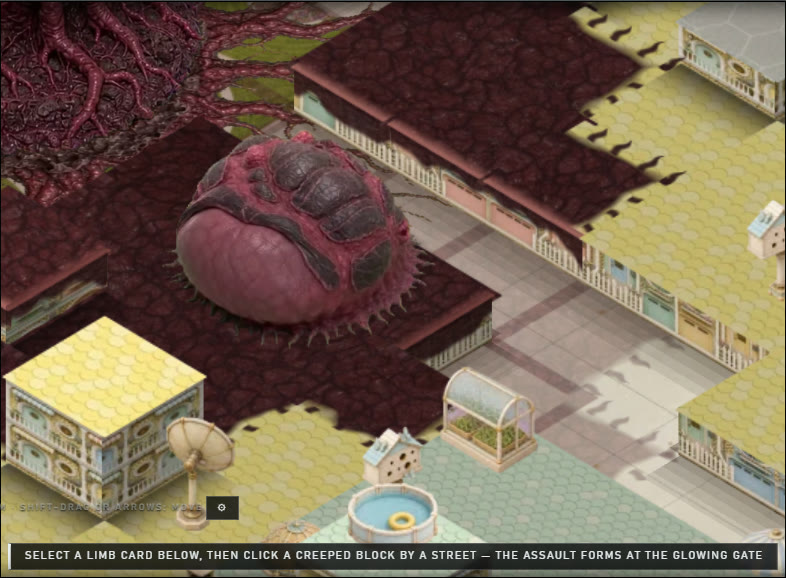
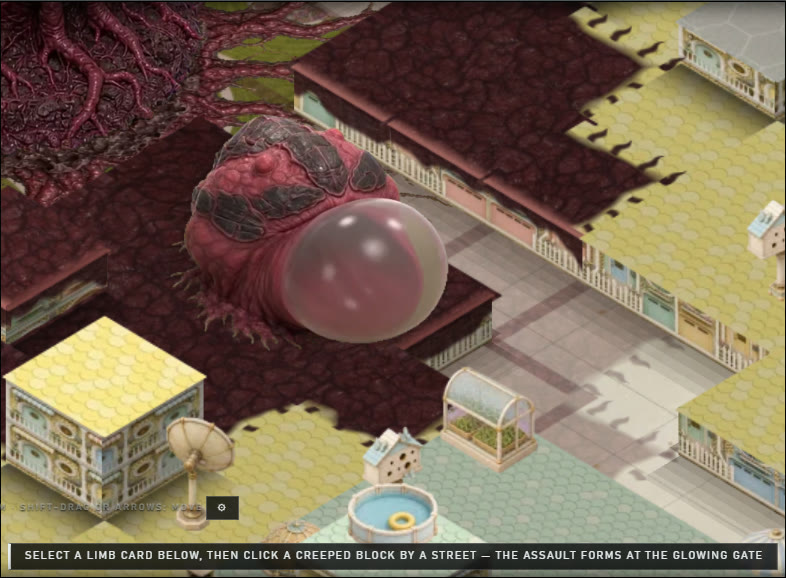
Broodfall: peers' work in progress (swept in by the sound session)

Changed region(s): [[0.2137, 0.1869, 0.5802, 0.5917]]

diff --git a/games/broodfall/notes/screens/2026-09-30/anim-README.md b/games/broodfall/notes/screens/2026-09-30/anim-README.md
@@ -10,6 +10,124 @@ Three videos of the real game (DEV server, Chromium with the GPU on, Chrome's ow
 
 Made by `node tools/shot-anim.mjs [limbs core siege]`. The numbers below come from `node tools/art/idle-loops.mjs`, which measures every idle loop straight from the atlases (all 37 limbs, front and back, and the 4 core stages). A per-limb motion trace over anim-01 (mean pixel change between video frames, in a box round each limb) was used to check that what the atlas says is what the page shows.
 
+## AFTER: the idles fixed (Sep 30 2026, same day)
+
+Three new reels, recorded the same way (`node tools/shot-anim.mjs limbs core siege --after`):
+
+| Video | What it shows |
+|---|---|
+| `anim-11-limbs-idle-close-AFTER.mp4` | the same 12 limbs, same seed, same camera as anim-01 |
+| `anim-12-core-stages-AFTER.mp4` | the core idling at stages 1 to 4, as anim-02 |
+| `anim-13-siege-AFTER.mp4` | the same scripted siege as anim-03 (seed 3, wave 5) |
+
+What was done, fault by fault:
+
+1. **Snaps: every idle with no clean loop now plays ping-pong** (Collins: "you can fix that with a ping
+   pong loop, front to back, back to front"). The bake (`tools/art/templates/limb.mjs`, `idleCut`) now
+   compares frames in colour at up to 160 px over what is solid, the units of this page's table (the old
+   cut compared 48 px grey thumbnails, which cannot see a glow crawl). It keeps the LONGEST window whose
+   seam is at most 1.35 steps; an idle with no such window (it drifts one way all through: the maw's mouth
+   widening for 4 s, the mosaic's glow crawling) is baked with `"pingpong": true` over the longest stretch
+   the clip has, and the game plays it forward and back, eased at its ends (a cosine) so it breathes out
+   and in instead of bouncing. 34 of the 52 limb idles play ping-pong, 18 loop cleanly. A cross-fade of the
+   seam at bake was tried first on the milder ones and dropped for Collins's call. Core stages 3 and 4
+   were already ping-pong (baked there and back); the game now does it, so their frames are stored once.
+2. **Stop-motion: every frame of the loop is kept** (the clip's own frames at 12 fps: real in-betweens
+   from the video, not interpolated; the bake used to keep 16 of up to 46), and the game **cross-fades
+   frame to frame** (the next frame laid over this one at the fraction between them: a second sprite per
+   limb and for the core). No frame interpolator was needed: the source clips are 24 fps. Every limb idle
+   is now 12 fps (was 4.2 to 12); core stages 1 and 2 keep 37 and 35 frames (were 16), stage 3 27 and
+   stage 4 19 (a picture is kept under 8,192 px a side and about 45 million pixels, what a GPU takes as
+   one texture: stage 3's frames are 1,091 px).
+3. **Game speed: the idles have their own clock** (`src/render/idleClock.ts`). It runs on real time at
+   the game's speed measured over the last half second, capped at 1.5x, and stops dead when the sim stops
+   (pause, draft). A buff no longer speeds an idle. This also fixed a fault the first reels could not show:
+   the sim ticks 0.1 s at a time, so an idle on the sim's clock could only change 10 times a second.
+   Firing clips still follow the game clock (they are fitted into the time before the limb fires again,
+   which is game time).
+4. **In step: each limb starts at its own phase**, a hash of its id (was 0.37 s x id, which wrapped).
+5. **Near-still idles breathe**: an idle under 2% of it moving per step at 12 fps is baked `"breathe": true`
+   and the game swells it about its foot (1.1% taller, 0.5% narrower, one breath per 3.4 s, its own phase):
+   amp, blighter, burster, capacitor, conduit, mosaic, reliquary, ward, maw (front and back), ember back,
+   lance back, swamp (a flat pool, so not drawn breathing).
+
+Checked by eye: `node tools/art/idle-play.mjs <limb|core-N> [--back] [--before <old public/art>]` plays an
+idle exactly as the game does (loop or eased ping-pong, cross-fade, breathing) into a 30 fps film and a
+sheet of the 20 frames round its seam or turn; every idle was played before and after, and the ones that
+move most (quill back, frond, maw, bombard) were looked at frame by frame at 2x: no ghosting, no doubled
+spines. `node tools/art/idle-seams.mjs` prints each clip's old and new cut.
+
+### BEFORE / AFTER
+
+BEFORE: this page's table below (from the atlases as of commit 4af2198). AFTER: `node tools/art/idle-loops.mjs`
+on the new atlases. step and seam are in the same units (mean change per frame step, 0 to 255, over the
+opaque pixels): a seam of 1 step or less is invisible. A ping-pong has no seam (it turns back one step at a
+time); its cycle is there and back, eased (1.3x the frames' own time). The last column is what the eye sees:
+each idle played for two cycles at 30 fps the way the game draws it (`tools/art/idle-play.mjs`), the
+biggest change in one 1/30 s against the mean change. A snap or a held stop-motion pose shows as 6x to 14x;
+a smooth idle is 1.3x to 2.3x (a ping-pong's eased middle runs about 1.6x its mean, so ~2x is its floor).
+
+| limb | side | BEFORE fps · loop | BEFORE step | BEFORE seam (steps) | AFTER plays | AFTER frames · fps · cycle | AFTER step | AFTER seam (steps) | on screen, worst 1/30 s over mean: BEFORE → AFTER |
+|---|---|---|---|---|---|---|---|---|---|
+| amp | front | 8 · 2.00 s | 4.5 | 6.8 (1.50) | ping-pong + breathes | 46 · 12.00 · 9.75 s | 4.5 | none (turns) | 5.6x → 2.2x |
+| amp | back | 4.17 · 3.84 s | 11.6 | 13.2 (1.14) | ping-pong | 46 · 12.00 · 9.75 s | 5.8 | none (turns) | 9.4x → 2.0x |
+| blighter | front | 8.73 · 1.83 s | 3.9 | 12.2 (3.10) | ping-pong + breathes | 46 · 12.00 · 9.75 s | 3.4 | none (turns) | 8.5x → 2.2x |
+| bombard | front | 4.17 · 3.84 s | 14.4 | 9.6 (0.67) | loop | 46 · 12.00 · 3.83 s | 7.2 | 6.2 (0.86) | 9.3x → 1.6x |
+| boomerang | front | 12 · 1.33 s | 5.5 | 17.8 (3.21) | ping-pong | 46 · 12.00 · 9.75 s | 8.6 | none (turns) | 6.4x → 2.4x |
+| brood | front | 4.92 · 3.25 s | 14.5 | 19.2 (1.32) | loop | 46 · 12.00 · 3.83 s | 7.8 | 7.2 (0.91) | 10.2x → 2.1x |
+| brood | back | 4.47 · 3.58 s | 10.9 | 14.6 (1.34) | loop | 43 · 12.00 · 3.58 s | 5.5 | 6.0 (1.11) | 9.4x → 1.5x |
+| burster | front | 4.17 · 3.84 s | 8.0 | 7.7 (0.96) | ping-pong + breathes | 46 · 12.00 · 9.75 s | 4.2 | none (turns) | 9.9x → 2.1x |
+| cage | front | 4.17 · 3.84 s | 11.3 | 12.7 (1.13) | ping-pong | 46 · 12.00 · 9.75 s | 5.4 | none (turns) | 9.7x → 2.1x |
+| capacitor | front | 11.29 · 1.42 s | 3.5 | 16.0 (4.54) | ping-pong + breathes | 46 · 12.00 · 9.75 s | 4.5 | none (turns) | 9.0x → 1.9x |
+| choir | front | 6 · 2.67 s | 8.9 | 7.6 (0.85) | loop | 32 · 12.00 · 2.67 s | 5.8 | 5.7 (0.99) | 6.2x → 1.3x |
+| conduit | front | 8.73 · 1.83 s | 4.4 | 13.2 (2.97) | ping-pong + breathes | 46 · 12.00 · 9.75 s | 3.6 | none (turns) | 8.4x → 2.1x |
+| conduit | back | 7.11 · 2.25 s | 8.1 | 6.9 (0.84) | loop | 28 · 12.00 · 2.33 s | 5.7 | 7.1 (1.23) | 5.7x → 1.5x |
+| ember | front | 4.17 · 3.84 s | 13.1 | 19.9 (1.52) | ping-pong | 46 · 12.00 · 9.75 s | 6.3 | none (turns) | 9.3x → 2.1x |
+| ember | back | 10.67 · 1.50 s | 3.4 | 9.1 (2.73) | ping-pong + breathes | 46 · 12.00 · 9.75 s | 3.8 | none (turns) | 6.7x → 2.0x |
+| frond | front | 4.57 · 3.50 s | 13.8 | 17.5 (1.26) | ping-pong | 46 · 12.00 · 9.75 s | 7.2 | none (turns) | 10.1x → 2.0x |
+| impaler | front | 4.47 · 3.58 s | 7.9 | 5.6 (0.72) | loop | 45 · 12.00 · 3.75 s | 4.1 | 4.9 (1.18) | 9.9x → 1.5x |
+| impaler | back | 4.36 · 3.67 s | 10.6 | 8.2 (0.77) | loop | 46 · 12.00 · 3.83 s | 5.2 | 5.3 (1.02) | 9.6x → 1.6x |
+| lance | front | 4.47 · 3.58 s | 6.8 | 7.1 (1.05) | ping-pong | 46 · 12.00 · 9.75 s | 3.8 | none (turns) | 10.8x → 2.3x |
+| lance | back | 11.29 · 1.42 s | 3.0 | 5.5 (1.83) | ping-pong + breathes | 46 · 12.00 · 9.75 s | 3.6 | none (turns) | 4.1x → 1.9x |
+| lasher | front | 4.17 · 3.84 s | 13.6 | 18.6 (1.37) | loop | 46 · 12.00 · 3.83 s | 6.7 | 8.3 (1.23) | 9.7x → 1.4x |
+| lobber | front | 12 · 1.33 s | 5.0 | 24.8 (4.99) | ping-pong | 46 · 12.00 · 9.75 s | 5.5 | none (turns) | 8.6x → 1.8x |
+| lobber | back | 4.27 · 3.75 s | 16.2 | 11.8 (0.73) | ping-pong | 46 · 12.00 · 9.75 s | 7.6 | none (turns) | 12.1x → 2.4x |
+| lure | front | 4.47 · 3.58 s | 11.6 | 21.1 (1.82) | ping-pong | 46 · 12.00 · 9.75 s | 5.9 | none (turns) | 9.7x → 1.8x |
+| maw | front | 11.29 · 1.42 s | 4.4 | 21.7 (4.93) | loop + breathes | 46 · 12.00 · 3.83 s | 4.6 | 4.4 (0.95) | 10.8x → 1.4x |
+| maw | back | 11.29 · 1.42 s | 4.1 | 7.9 (1.93) | ping-pong + breathes | 46 · 12.00 · 9.75 s | 3.3 | none (turns) | 4.5x → 2.1x |
+| mister | front | 8.73 · 1.83 s | 5.4 | 11.8 (2.20) | ping-pong | 46 · 12.00 · 9.75 s | 6.2 | none (turns) | 5.9x → 2.0x |
+| mitosis | front | 4.68 · 3.42 s | 14.8 | 18.0 (1.21) | loop | 46 · 12.00 · 3.83 s | 8.6 | 5.9 (0.69) | 9.2x → 1.6x |
+| mosaic | front | 11.29 · 1.42 s | 3.7 | 19.9 (5.43) | ping-pong + breathes | 46 · 12.00 · 9.75 s | 4.0 | none (turns) | 12.4x → 2.3x |
+| net | front | 4.27 · 3.75 s | 16.0 | 8.8 (0.55) | loop | 46 · 12.00 · 3.83 s | 7.4 | 5.6 (0.76) | 10.2x → 1.8x |
+| ocular | front | 6.4 · 2.50 s | 13.3 | 27.7 (2.09) | ping-pong | 46 · 12.00 · 9.75 s | 9.3 | none (turns) | 8.4x → 2.0x |
+| ocular | back | 10.67 · 1.50 s | 9.0 | 28.1 (3.12) | ping-pong | 46 · 12.00 · 9.75 s | 9.2 | none (turns) | 7.2x → 2.3x |
+| press | front | 4.8 · 3.33 s | 16.3 | 4.8 (0.29) | loop | 46 · 12.00 · 3.83 s | 8.4 | 4.8 (0.57) | 9.2x → 2.0x |
+| press | back | 4.47 · 3.58 s | 18.4 | 16.4 (0.89) | loop | 45 · 12.00 · 3.75 s | 9.7 | 9.8 (1.00) | 8.8x → 1.7x |
+| prism | front | 12 · 1.33 s | 4.9 | 22.6 (4.64) | ping-pong | 46 · 12.00 · 9.75 s | 5.2 | none (turns) | 9.2x → 1.8x |
+| quill | front | 5.49 · 2.91 s | 12.3 | 26.3 (2.13) | ping-pong | 46 · 12.00 · 9.75 s | 7.5 | none (turns) | 11.8x → 2.2x |
+| quill | back | 4.36 · 3.67 s | 29.8 | 36.9 (1.24) | loop | 46 · 12.00 · 3.83 s | 13.9 | 10.4 (0.75) | 10.8x → 2.1x |
+| reliquary | front | 4.17 · 3.84 s | 5.5 | 8.7 (1.59) | ping-pong + breathes | 46 · 12.00 · 9.75 s | 3.2 | none (turns) | 10.6x → 2.3x |
+| skipper | front | 4.27 · 3.75 s | 11.3 | 5.4 (0.48) | loop | 46 · 12.00 · 3.83 s | 5.5 | 5.4 (0.99) | 10.1x → 1.6x |
+| skipper | back | 11.29 · 1.42 s | 4.4 | 15.4 (3.54) | ping-pong | 46 · 12.00 · 9.75 s | 5.5 | none (turns) | 6.8x → 2.1x |
+| sling | front | 4.17 · 3.84 s | 12.0 | 6.8 (0.56) | loop | 46 · 12.00 · 3.83 s | 5.8 | 5.9 (1.01) | 13.3x → 1.8x |
+| sling | back | 6.4 · 2.50 s | 10.7 | 13.9 (1.30) | ping-pong | 46 · 12.00 · 9.75 s | 7.0 | none (turns) | 5.9x → 1.8x |
+| spine | front | 4.17 · 3.84 s | 8.4 | 7.9 (0.94) | ping-pong | 46 · 12.00 · 9.75 s | 4.3 | none (turns) | 10.2x → 1.7x |
+| spitter | front | 6 · 2.67 s | 6.6 | 13.7 (2.06) | ping-pong | 46 · 12.00 · 9.75 s | 4.4 | none (turns) | 8.9x → 2.1x |
+| spitter | back | 6 · 2.67 s | 6.2 | 9.7 (1.57) | ping-pong | 46 · 12.00 · 9.75 s | 4.3 | none (turns) | 6.8x → 2.1x |
+| sprout | front | 10.11 · 1.58 s | 6.8 | 19.1 (2.82) | ping-pong | 46 · 12.00 · 9.75 s | 7.2 | none (turns) | 6.3x → 2.9x |
+| swamp | front | 7.68 · 2.08 s | 4.1 | 3.8 (0.91) | loop + breathes | 24 · 12.00 · 2.00 s | 3.3 | 3.6 (1.09) | 5.4x → 1.5x |
+| tangler | front | 5.33 · 3.00 s | 13.9 | 15.4 (1.10) | loop | 43 · 12.00 · 3.58 s | 7.6 | 9.1 (1.19) | 8.6x → 1.5x |
+| tap | front | 4.68 · 3.42 s | 8.1 | 12.4 (1.53) | ping-pong | 46 · 12.00 · 9.75 s | 4.8 | none (turns) | 9.6x → 2.3x |
+| tap | back | 4.8 · 3.33 s | 9.9 | 9.7 (0.98) | ping-pong | 46 · 12.00 · 9.75 s | 5.6 | none (turns) | 9.9x → 2.4x |
+| twin | front | 6 · 2.67 s | 16.8 | 16.5 (0.98) | loop | 46 · 12.00 · 3.83 s | 10.9 | 6.1 (0.56) | 7.2x → 2.0x |
+| ward | front | 5.49 · 2.91 s | 6.5 | 9.8 (1.51) | ping-pong + breathes | 46 · 12.00 · 9.75 s | 4.2 | none (turns) | 8.4x → 2.1x |
+| core-1 | front | 5.19 · 3.08 s | 11.2 | 8.9 (0.80) | loop | 37 · 12.00 · 3.08 s | 7.5 | 5.6 (0.74) | 9.4x → 1.9x |
+| core-2 | front | 5.49 · 2.91 s | 12.9 | 11.9 (0.93) | loop | 35 · 12.00 · 2.92 s | 8.5 | 9.1 (1.07) | 7.7x → 1.6x |
+| core-3 | front | 5.33 · 4.13 s | 10.6 | 4.4 (0.41) | ping-pong | 27 · 12.00 · 5.63 s | 7.3 | none (turns) | 8.9x → 3.1x |
+| core-4 | front | 7.58 · 2.90 s | 11.7 | 4.1 (0.35) | ping-pong | 19 · 12.00 · 3.90 s | 8.9 | none (turns) | 7.2x → 2.6x |
+
+The BEFORE findings follow, unchanged.
+
 ## Verdict
 
 **Everything animates. Nothing is frozen.** Every limb and every core stage plays its idle on a loop at 1x, and the siege is busy: lashers whip, limbs play their fire clips, soldiers walk and fight, the creep spreads and pulses. But the motion has **two clear faults**, and they sort almost exactly by the idle's fps:
